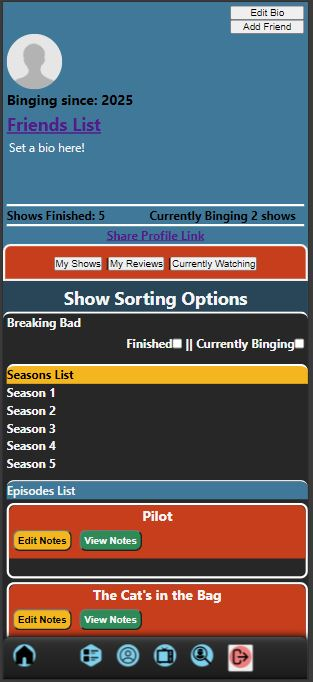
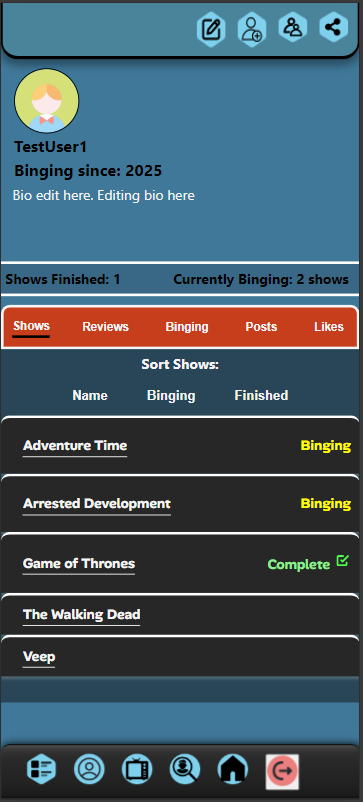
Added more project images, fixed descriptions

diff --git a/src/data/ProjectsData.jsx b/src/data/ProjectsData.jsx
@@ -1,17 +1,28 @@
-import BingeLogHome from "../../src/assets/BingeLogHome.png"
 import BingeLogUserPage from "../../src/assets/BingeLogUserPg.png"
+import BingeLogSocialFeed from "../../src/assets/BingeLogSocialFeed.png"
+import BingeLogShowSearch from "../../src/assets/BingeLogShowSearch.png"
+import ShowDetails from "../../src/assets/ShowDetails.png"
 
+import TaskBreakerArchive from "../../src/assets/TaskBreakerArchive.png"
+import TaskBreakerGoalsPg from "../../src/assets/TaskBreakerGoalsPg.png"
+import TaskBreakerNotesPg from  "../../src/assets/TaskBreakerNotesPg.png"
+import TaskBreakerNotesPg2 from "../../src/assets/TaskBreakerNotesPg2.png"
 
+import RPGCastleMap from "../../src/assets/RPGCastleMap.png"
+import RPGQuest from "../../src/assets/RPGQuest.png"
+import RPGQuestLog from "../../src/assets/RPGQuestLog.png"
+import RPGMonsterLog from "../../src/assets/RPGMonsterLog.png"
+import RPGBattle from "../../src/assets/RPGBattle.png"
 
 export const ProjectsData = [
     {
         id: "BingeLog_Project",
         title: "BingeLog",
-        description: "Bingelog is a Twitter inspired TV tracker that includes an automatic social feed based on user updates. It's meant to be a simple, but still social app amongst friends with emphasis on avoiding spoilers.",
+        description: "Bingelog is a Twitter inspired TV show tracker that includes an automatic social feed based on user updates. It's meant to be a simple, but still social app amongst friends with emphasis on avoiding spoilers.",
         tech: ["React", "CSS", "JS"],
         gitRepo: "https://github.com/WebDev955/BingeLog",
         liveDemo: "https://webdev955.github.io/BingeLog/",
-        images: [BingeLogHome, BingeLogUserPage],
+        images: [BingeLogUserPage, BingeLogSocialFeed, BingeLogShowSearch, ShowDetails],
         futureFeatures:[
             "Manual status updates.", 
             "Fully functional reviews page to search and display reviews with comments.",
@@ -21,11 +32,11 @@ export const ProjectsData = [
     {
         id: "TaskBreaker_Project",
         title: "TaskBreaker",
-        description: "TaskBreaker is meant to be as simple and encouraging app to create and accomplish goals. Create Goals that have Tasks and further breakdown Tasks into Chunks. In addtion, use a Pomodoro timer to complete your tasks. Never delete your goals! Archive them until you are ready to take them on.",
+        description: "TaskBreaker is meant to be a simple and encouraging app to create and accomplish goals. Create Goals that have Tasks and further breakdown Tasks into Chunks. In addtion, use a Pomodoro timer to complete your tasks. Never delete your goals! Archive them until you are ready to take them on.",
         tech: ["React", "CSS", "JS", "TS"],
         gitRepo: "https://github.com/WebDev955/TaskBreaker",
         liveDemo: " https://webdev955.github.io/TaskBreaker/",
-        images: ["img"],
+        images: [TaskBreakerArchive, TaskBreakerGoalsPg, TaskBreakerNotesPg, TaskBreakerNotesPg2],
         futureFeatures:[
             "Intergrating another app into this to provide users with random topics to learn.",
             "Profile creation.",
@@ -34,17 +45,16 @@ export const ProjectsData = [
     {
         id: "MagicRPG_Project",
         title: "Magic RPG",
-        description: "MagicRPG is a web app, mobile focused battle RPG game. A classic turn based RPG battle system with a unique  ",
+        description: "MagicRPG is a web app, mobile focused RPG game. A classic turn based RPG battle system with gimmick a of shifting one's element through out battle to change the tide of battle.",
         tech: ["React", "CSS", "JS", "TS"],
         gitRepo: "https://github.com/WebDev955/MagicRPGRemix",
         liveDemo: "https://webdev955.github.io/MagicRPGRemix/",
-        images: ["imgSource"],
+        images: [RPGCastleMap,RPGQuest, RPGQuestLog, RPGMonsterLog, RPGBattle],
         futureFeatures:[
-            "Improved battles with better logic",
+            "Fine tuning the battle logic.",
             "Access to the village, a village item shop, and an additional cave quest.", 
-            "Crafting items and spells with materials",
+            "Crafting items and spells with materials.",
             "Expanding current maps.",
-
         ]
     }
 ]

diff --git a/src/components/ProjectCard.jsx b/src/components/ProjectCard.jsx
@@ -19,6 +19,7 @@ export const ProjectCard = ({project, key}) => {
                         <p>{project.description}</p>
                         <div>
                             <ul>
+                                <h2>Future Features</h2>
                                 {project.futureFeatures.map((feature) =>
                                     <li>{feature}</li> 
                                 )}                            
@@ -26,8 +27,9 @@ export const ProjectCard = ({project, key}) => {
                         </div>
                     </article>
                     <section className = {styles.projectImgWrapper}>
-                        <img src={project.images[0]}/>
-                        <img src={project.images[1]}/>
+                        {project.images.map((image) =>
+                            <img src={image}/>
+                        )}
                     </section>
                 </section>
         </main>

diff --git a/src/components/ProjectCard.module.css b/src/components/ProjectCard.module.css
@@ -35,6 +35,7 @@
     display: flex;
     flex-direction: row;
     align-items: center;
+    flex-wrap: wrap;
 }
 
 .projectImgWrapper  img{
